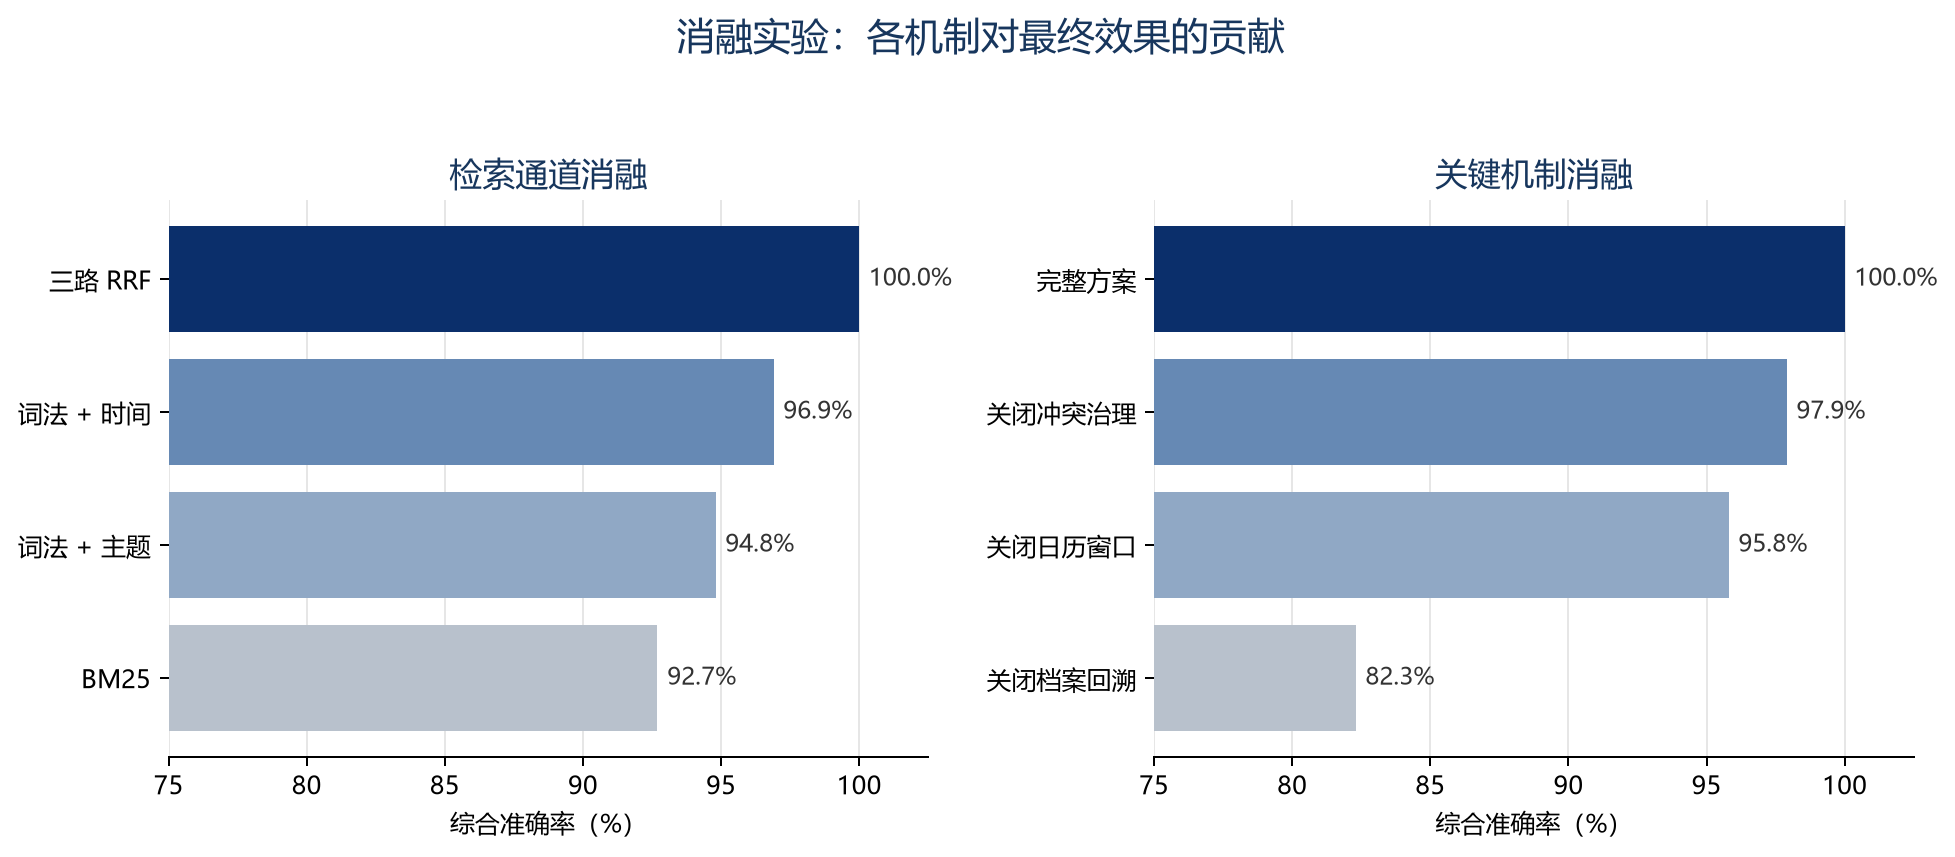
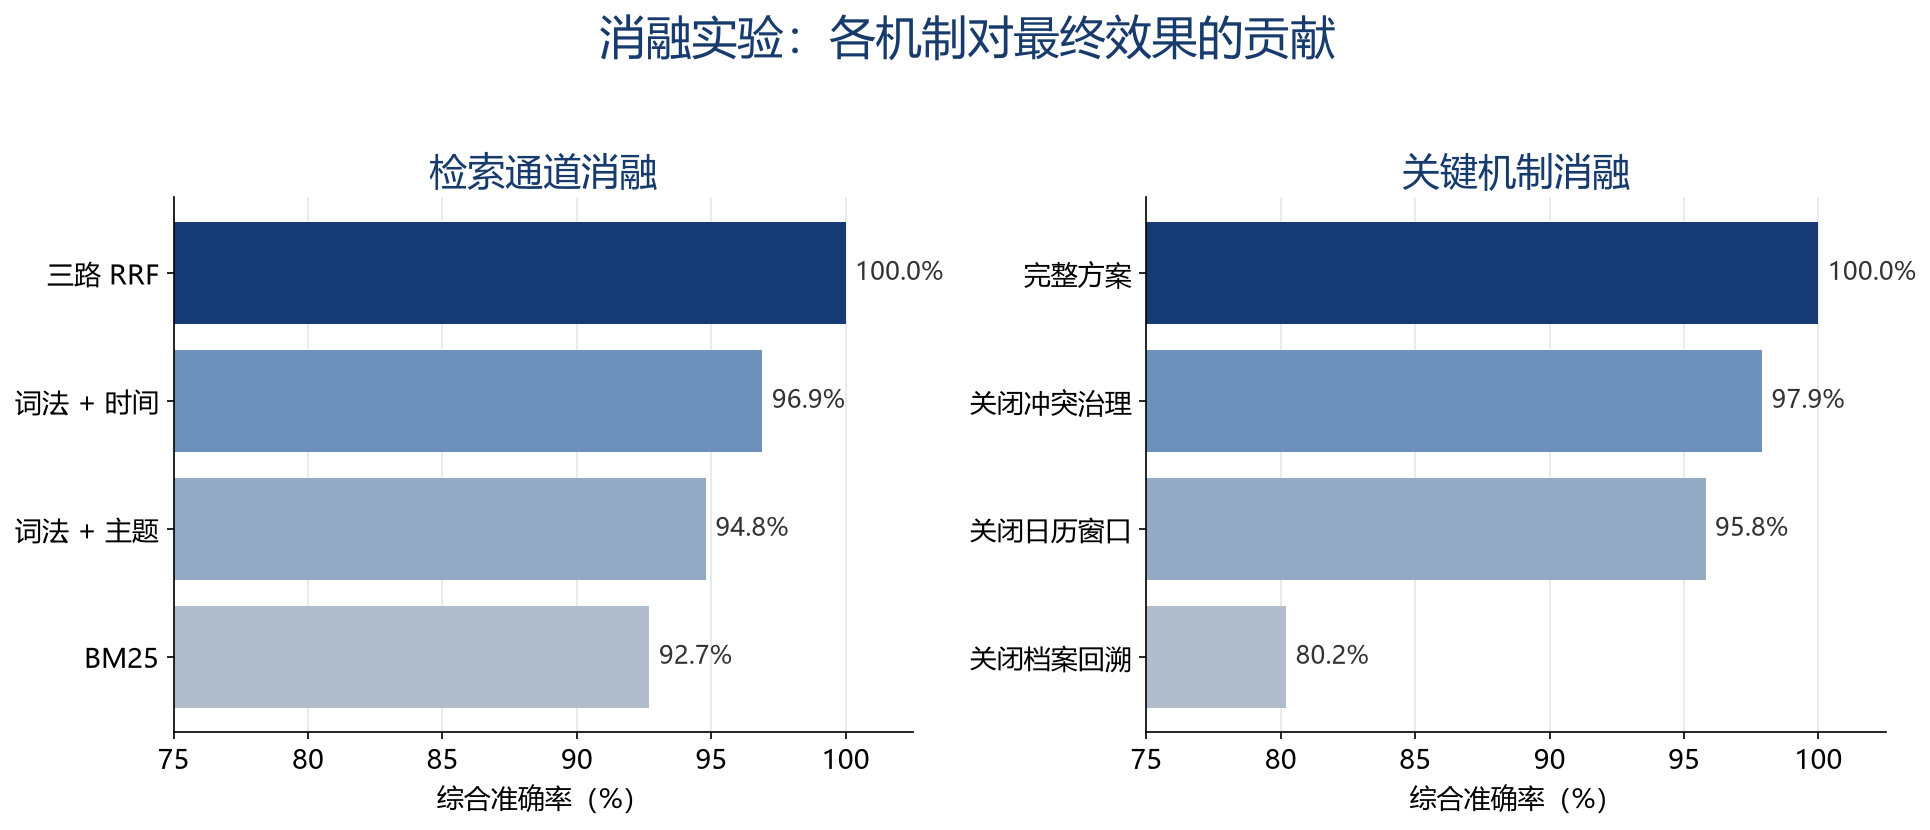
Align model integration and evaluation materials

diff --git a/memagent/answer.py b/memagent/answer.py
@@ -70,6 +70,17 @@ def _is_summary_query(query: str) -> bool:
     )
 
 
+def _is_attribute_value_query(query: str) -> bool:
+    if re.search(r"是不是|是否|还(?:在|有)|有没有|对不对|吗[？?]?$", query):
+        return False
+    return bool(re.search(
+        r"是什么|是多少|什么|"
+        r"哪(?:个|种|里|儿)|多久|几次|多长时间|多少钱|多少(?:本|个|次|元)|"
+        r"频率|时间|地点|城市|类型|设备|配置|颜色|风格|金额",
+        query,
+    ))
+
+
 def _historical_event_hits(query: str, hits):
     """Keep records that express the event asked by a 'when' question."""
     if not re.search(r"什么时候|哪天|哪一年|哪一月|几月几日", query):
@@ -133,16 +144,21 @@ def _current_state_hits(store, query: str, hits):
 
     from .semantics import analyze_semantics, frame_for_memory
     query_frame = analyze_semantics(query, is_query=True)
-    requested_evidence_facets = set(query_frame.facets) & {
-        "地点", "数量", "类型", "设备", "金额",
-    }
+    requested_evidence_facets = (
+        set(query_frame.facets) - {"状态"}
+        if _is_attribute_value_query(query)
+        else set()
+    )
     if requested_evidence_facets:
         attribute_hits = []
+        state_hits = []
         for memory, score in hits:
             parent = store.memory_by_id(memory.parent_id) if memory.parent_id else None
             memory_frame = frame_for_memory(memory, parent.detail if parent else "")
             if requested_evidence_facets & set(memory_frame.facets):
                 attribute_hits.append((memory, score))
+            if memory.action in {"更改", "放弃", "开始", "约定"}:
+                state_hits.append((memory, score, memory_frame))
         if attribute_hits:
             selected, selected_score = max(
                 attribute_hits,
@@ -152,6 +168,24 @@ def _current_state_hits(store, query: str, hits):
                     write_order.get(x[0].id, -1),
                 ),
             )
+            if state_hits:
+                latest_state, latest_state_score, latest_state_frame = max(
+                    state_hits,
+                    key=lambda x: (
+                        x[0].status != "superseded",
+                        x[0].date,
+                        write_order.get(x[0].id, -1),
+                        CURRENT_ACTION_PRIORITY.get(x[0].action, 0),
+                    ),
+                )
+                if (
+                    latest_state.date > selected.date
+                    and not requested_evidence_facets & set(latest_state_frame.facets)
+                ):
+                    return [
+                        (latest_state, latest_state_score),
+                        (selected, -1.0),
+                    ]
             concise = [(selected, selected_score)]
             for conflict in store.conflicts:
                 if selected.id not in (conflict.older_id, conflict.newer_id):
@@ -225,7 +259,7 @@ def compose(
 ) -> dict:
     """返回 {answer, evidence, used_conclusion}。
 
-    display 控制证据呈现顺序（离线模板与 LLM 上下文共用同一份证据）：
+    display 控制证据呈现顺序（本地模板与 LLM 上下文共用同一份证据）：
     - "recent"   现状类问题：最新证据排最前（体现"以最新为准"），最多 6 条；
     - "timeline" 时间回溯/总结类：按时间顺序铺开叙事，最多 8 条；
     - "calendar" 日历窗口类（"十月以来""国庆"）：按时间顺序铺开，窗口内全量呈现。
@@ -233,7 +267,7 @@ def compose(
     answer_mode:
     - retrieval_only：只用确定性模板组织检索证据，不联系 LLM；
     - retrieval_llm：将检索证据交给 LLM 做分析、建议或综合表达；
-    - auto：兼容旧调用，在线时使用 LLM。
+    - auto：兼容旧调用，模型接口可用时使用 LLM。
     """
     hits = _historical_event_hits(query, hits)
     if _is_latest_event_query(query):
@@ -332,7 +366,7 @@ def compose(
         except Exception:
             pass
 
-    # ---------- 离线模板作答 ----------
+    # ---------- 本地模板作答 ----------
     parts = []
     if conclusions and display == "timeline" and _is_summary_query(query):
         for c in conclusions:
@@ -345,7 +379,42 @@ def compose(
             key=lambda m: (m.status == "active", m.date),
         )
         parts.append(f"根据你最近一次明确记录：{current.detail}（{current.date}）")
-        if conflict_notes:
+        from .semantics import analyze_semantics, frame_for_memory
+        query_frame = analyze_semantics(query, is_query=True)
+        requested_facets = (
+            set(query_frame.facets) - {"状态"}
+            if _is_attribute_value_query(query)
+            else set()
+        )
+        current_parent = store.memory_by_id(current.parent_id) if current.parent_id else None
+        current_frame = frame_for_memory(
+            current,
+            current_parent.detail if current_parent else "",
+        )
+        missing_facets = requested_facets - set(current_frame.facets)
+        historical_attribute = None
+        if missing_facets:
+            candidates = []
+            for memory, _score in hits:
+                if memory.id == current.id:
+                    continue
+                parent = store.memory_by_id(memory.parent_id) if memory.parent_id else None
+                memory_frame = frame_for_memory(
+                    memory,
+                    parent.detail if parent else "",
+                )
+                if missing_facets & set(memory_frame.facets):
+                    candidates.append(memory)
+            if candidates:
+                historical_attribute = max(candidates, key=lambda memory: memory.date)
+        if historical_attribute:
+            facet_label = "、".join(sorted(missing_facets))
+            parts.append(
+                f"这条记录没有说明当前{facet_label}。上一阶段记录为："
+                f"{historical_attribute.detail}（{historical_attribute.date}），"
+                "该值不能直接视为当前状态。"
+            )
+        elif conflict_notes:
             parts.append("这一状态有过更新，当前以上述最新记录为准。")
     elif lines:
         if conflict_notes:

diff --git a/tests/test_shared_semantics.py b/tests/test_shared_semantics.py
@@ -147,12 +147,15 @@ class TestCrossDomainRetrieval(SharedSemanticTestCase):
         self.assertNotIn("跑步", result["answer"])
 
     def test_explicit_change_count_is_an_evolution_query(self):
-        frame = analyze_semantics("我的咖啡口味经历了几次变化？", is_query=True)
+        frame = analyze_semantics("我的旅行计划是怎么变化的？", is_query=True)
         self.assertEqual(frame.scope, "evolution")
+        self.assertEqual(frame.topic, "旅行")
+        self.assertNotIn("变化", frame.entities)
 
     def test_current_plan_uses_latest_state_change_not_latest_completion(self):
         store = self.make_store()
         agent = MemoryAgent(store)
+        agent.ingest("2026-04-20", "跑步频率改成隔天一次。")
         agent.ingest("2026-05-20", "跑步计划正式放弃。")
         agent.ingest("2026-09-01", "重新开始跑步计划，目标五公里。")
         agent.ingest("2026-10-14", "今天跑步按计划完成，膝盖没有不适。")
@@ -165,6 +168,16 @@ class TestCrossDomainRetrieval(SharedSemanticTestCase):
 
         self.assertIn("重新开始跑步计划", result["answer"])
         self.assertNotIn("按计划完成", result["answer"])
+
+        with patch("memagent.llm.is_enabled", return_value=False):
+            frequency_result = agent.answer(
+                "我现在跑步的频率是多少？",
+                answer_mode="retrieval_only",
+            )
+
+        self.assertIn("没有说明当前频率", frequency_result["answer"])
+        self.assertIn("隔天一次", frequency_result["answer"])
+        self.assertIn("不能直接视为当前状态", frequency_result["answer"])
 
     def test_current_arrangement_keeps_latest_semantic_candidate(self):
         store = self.make_store()
@@ -181,6 +194,7 @@ class TestCrossDomainRetrieval(SharedSemanticTestCase):
 
         self.assertIn("轮流大扫除", result["answer"])
         self.assertNotIn("本月我自己做", result["answer"])
+        self.assertNotIn("没有说明当前", result["answer"])
 
     def test_evolution_query_keeps_method_and_preference_changes(self):
         store = self.make_store()
@@ -197,6 +211,34 @@ class TestCrossDomainRetrieval(SharedSemanticTestCase):
 
         self.assertIn("手冲", result["answer"])
         self.assertIn("浅烘", result["answer"])
+
+        travel_store = self.make_store()
+        travel_agent = MemoryAgent(travel_store)
+        travel_agent.ingest("2026-05-01", "国庆最初计划去西安。")
+        travel_agent.ingest("2026-07-20", "国庆行程后来改成去泉州。")
+
+        with patch("memagent.llm.is_enabled", return_value=False):
+            travel_result = travel_agent.answer(
+                "我的旅行计划是怎么变化的？",
+                answer_mode="retrieval_only",
+            )
+
+        self.assertIn("西安", travel_result["answer"])
+        self.assertIn("泉州", travel_result["answer"])
+
+        reading_store = self.make_store()
+        reading_agent = MemoryAgent(reading_store)
+        reading_agent.ingest("2026-06-20", "Kindle 吃灰了，改回看纸质书。")
+        reading_agent.ingest("2026-09-28", "最近在读《活着》，进度已经过半。")
+
+        with patch("memagent.llm.is_enabled", return_value=False):
+            reading_result = reading_agent.answer(
+                "我最近在读什么书？",
+                answer_mode="retrieval_only",
+            )
+
+        self.assertIn("《活着》", reading_result["answer"])
+        self.assertNotIn("Kindle 吃灰", reading_result["answer"])
 
     def test_current_configuration_recognizes_axis_type(self):
         store = self.make_store()

diff --git a/web/app.py b/web/app.py
@@ -11,8 +11,8 @@
 - 记忆导出（JSON 下载，数据始终属于用户）
 
 启动（项目根目录）:
-    python web/app.py --port 8765              # 规则模式（离线可复现）
-    MEMAGENT_LLM=1 python web/app.py --port 8765  # 在线语义增强模式
+    python web/app.py --port 8765                 # 读取 .env 并启动服务
+    MEMAGENT_LLM=0 python web/app.py --port 8765  # 关闭模型调用，用于固定评测
 """
 
 from __future__ import annotations
@@ -1508,7 +1508,7 @@ def _attachment_fallback_answer(file_summaries: list[dict]) -> str:
 
 
 def _model_image_data_url(data: bytes, content_type: str) -> str:
-    """Downscale uploads before sending them to the online vision model."""
+    """Downscale uploads before sending them to the configured vision model."""
     try:
         from PIL import Image, ImageOps
 
@@ -1726,7 +1726,7 @@ async def handle_attachments(
 
     fallback_answer = _attachment_fallback_answer(file_summaries)
     if privacy_reason:
-        fallback_answer = "检测到敏感信息，本次附件未发送到在线模型，仅完成本地读取。\n" + fallback_answer
+        fallback_answer = "检测到敏感信息，本次附件未发送到模型接口，仅完成本地读取。\n" + fallback_answer
     return {
         "ok": True,
         "mode": "analysis",
@@ -2137,16 +2137,16 @@ def handle_image(req: PhotoRequest):
             "ok": True,
             "mode": "analysis",
             "answer": (
-                ("检测到敏感信息，本次图片未发送到在线模型。\n" if privacy_reason else "")
+                ("检测到敏感信息，本次图片未发送到模型接口。\n" if privacy_reason else "")
                 + f"当前只能识别图片中的文字，结果如下：\n{ocr_text}"
             ),
             "ocr_text": ocr_text,
             "visual_understanding": False,
             "privacy_local_only": bool(privacy_reason),
         }
-    limitation = "当前设备未识别出清晰文字，且在线图片理解暂不可用。"
+    limitation = "当前设备未识别出清晰文字，且视觉模型接口暂不可用。"
     if not vision_is_enabled():
-        limitation += " 离线模式只提供 OCR，不具备完整视觉理解。"
+        limitation += " 未配置视觉模型接口时，仅提供图片文字识别，不进行物体和场景分析。"
     return {
         "ok": False,
         "mode": "analysis",

diff --git a/memagent/llm.py b/memagent/llm.py
@@ -3,8 +3,8 @@
 #   MEMAGENT_BASE_URL  例如 https://dashscope.aliyuncs.com/compatible-mode/v1 或 https://api.deepseek.com/v1
 #   MEMAGENT_API_KEY   对应密钥
 #   MEMAGENT_MODEL     模型名，默认 deepseek-chat
-#   MEMAGENT_LLM       设为 0 可强制关闭 LLM（即使配置了密钥），用于离线复现
-# 未配置时 is_enabled() 返回 False，上层自动回退到规则模式，保证离线可跑。
+#   MEMAGENT_LLM       设为 0 可强制关闭 LLM（即使配置了密钥），用于固定评测
+# 未配置时 is_enabled() 返回 False，上层自动使用本地降级路径。
 import json
 import os
 import re
@@ -29,7 +29,7 @@ _load_dotenv()
 
 
 def is_enabled() -> bool:
-    """LLM 为显式开启（MEMAGENT_LLM=1）+ 密钥齐全，默认离线保证实验可复现。
+    """LLM 为显式开启（MEMAGENT_LLM=1）+ 密钥齐全；固定实验会主动关闭模型调用。
     交互式入口（agent.py）会自动置 MEMAGENT_LLM=1。"""
     if os.environ.get("MEMAGENT_LLM", "0") != "1":
         return False

diff --git a/memagent/retrieve.py b/memagent/retrieve.py
@@ -109,7 +109,7 @@ def calendar_spans(
 ) -> list[tuple[str, str]]:
     """把绝对日期、任意月份、相对日期和常见时间段统一转换为日期区间。
 
-    默认使用评测基准日保证离线实验可复现；网页端会显式传入系统当天日期。
+    默认使用评测基准日保证固定实验可复现；网页端会显式传入系统当天日期。
     """
     reference = _as_date(reference_date)
     spans: list[tuple[str, str]] = []
@@ -228,7 +228,7 @@ def tokenize(text: str) -> list[str]:
 
 
 # 同义词表：查询侧扩展。用户问"爱好"时，库里记的是"跑步/羽毛球/咖啡"，
-# 纯词面匹配会扑空——扩展同义词是离线模式下对语义检索的下位替代。
+# 纯词面匹配会扑空——扩展同义词是本地检索路径对语义检索的下位替代。
 SYNONYMS = {
     "爱好": ["喜欢", "跑步", "羽毛球", "咖啡", "运动"],
     "兴趣": ["喜欢", "跑步", "羽毛球", "咖啡"],

diff --git a/scripts/update_final_ppt.py b/scripts/update_final_ppt.py
@@ -33,7 +33,7 @@ ARCHITECTURE_NOTES = (
     "治理结果进入分层记忆与资料状态，包括当前、归档、淡化、长期结论、附件资料、取代链和来源证据。\n"
     "需要查询时，Retriever 从共享状态中读取受版本约束的证据，组合 BM25、时间窗和主题图，"
     "通过 RRF 融合后按当前、历史、演变或画像裁决范围。Auditor 最后检查证据充分性、"
-    "版本时效和拒答边界，再输出回答与证据。在线模型只提供语义分类、歧义补全、建议推理和表达，"
+    "版本时效和拒答边界，再输出回答与证据。模型接口只提供语义分类、歧义补全、建议推理和表达，"
     "不能直接写入记忆或改变证据范围。所有关键事件进入统一日志，并由固定题集、消融实验和自动回归验证。"
 )
 

diff --git a/memagent/memory.py b/memagent/memory.py
@@ -6,7 +6,7 @@ from datetime import date as _date
 from . import config, llm
 from .store import MemoryStore, MemoryItem, Conflict, Conclusion
 
-# 主题词表：命中即归类（离线规则模式的"语义理解"下位替代）
+# 主题词表：命中即归类（本地规则路径的“语义理解”下位替代）
 TOPIC_RULES = [
     (("跑步", "健身", "三公里", "五公里"), "健身"),
     (("羽毛球", "运动", "球馆"), "运动"),
@@ -147,7 +147,7 @@ def extract(store: MemoryStore, entry_text: str, entry_date: str, entry_id: str)
                     evidence=entry_id))
             return items
         except Exception:
-            pass  # LLM 失败时回退规则模式
+            pass  # LLM 失败时回退到本地规则路径
 
     for sent in _split_sentences(entry_text):
         topic = _match_topic(sent) or "生活"

diff --git a/memagent/semantics.py b/memagent/semantics.py
@@ -135,7 +135,8 @@ _GENERIC_ENTITY_WORDS = {
     "方向", "题目", "比例", "模式", "工具", "偏向", "选择", "时候", "周日",
     "周几", "晚上", "上午", "座位", "原来", "后来", "最初", "最终", "最后",
     "总结", "归纳", "概括", "回顾", "复盘", "关系", "原因", "城市", "地点",
-    "数量", "结果", "情况", "进展", "目标", "本数",
+    "数量", "结果", "情况", "进展", "目标", "本数", "变化", "演变", "历程",
+    "过程", "历史", "前后", "轨迹",
 }
 _BROAD_MARKERS = ("总结", "整体", "所有", "全部", "有哪些偏好", "有什么习惯")
 _CURRENT_MARKERS = (

diff --git a/scripts/run_model_stress.py b/scripts/run_model_stress.py
@@ -206,7 +206,7 @@ def _audit_case_labels(facts: list[dict], cases: list[dict]) -> list[dict]:
 
 def generate_cases(facts: list[dict]) -> list[dict]:
     if not is_enabled():
-        raise RuntimeError("Online LLM is not enabled; configure the project .env first.")
+        raise RuntimeError("The model API is not enabled; configure the project .env first.")
     cases: list[dict] = []
     seen = set()
     for batch_index, (category, wanted_memory, wanted_general) in enumerate(CATEGORIES, start=1):

diff --git a/scripts/run_large_evidence.py b/scripts/run_large_evidence.py
@@ -1,6 +1,6 @@
 # -*- coding: utf-8 -*-
 """主证据实验：在 dataset_large 的 219 条记录和 48 题上，
-量化任务分工、检索通道和关键机制的影响。全部离线运行。
+量化任务分工、检索通道和关键机制的影响。全部关闭生成模型调用运行。
 
 产出 eval/results/large_evidence.json：
   1. abc            —— 三架构对照（A 无记忆 / B 只存不整理 / C 本方案）

diff --git a/tests/test_image_routing.py b/tests/test_image_routing.py
@@ -279,7 +279,7 @@ class TestCombinedAttachments(unittest.TestCase):
 
         self.assertTrue(result["ok"])
         self.assertTrue(result["privacy_local_only"])
-        self.assertIn("未发送到在线模型", result["answer"])
+        self.assertIn("未发送到模型接口", result["answer"])
         chat_call.assert_not_called()
 
     def test_mixed_batch_rolls_back_previous_items_on_storage_failure(self):
